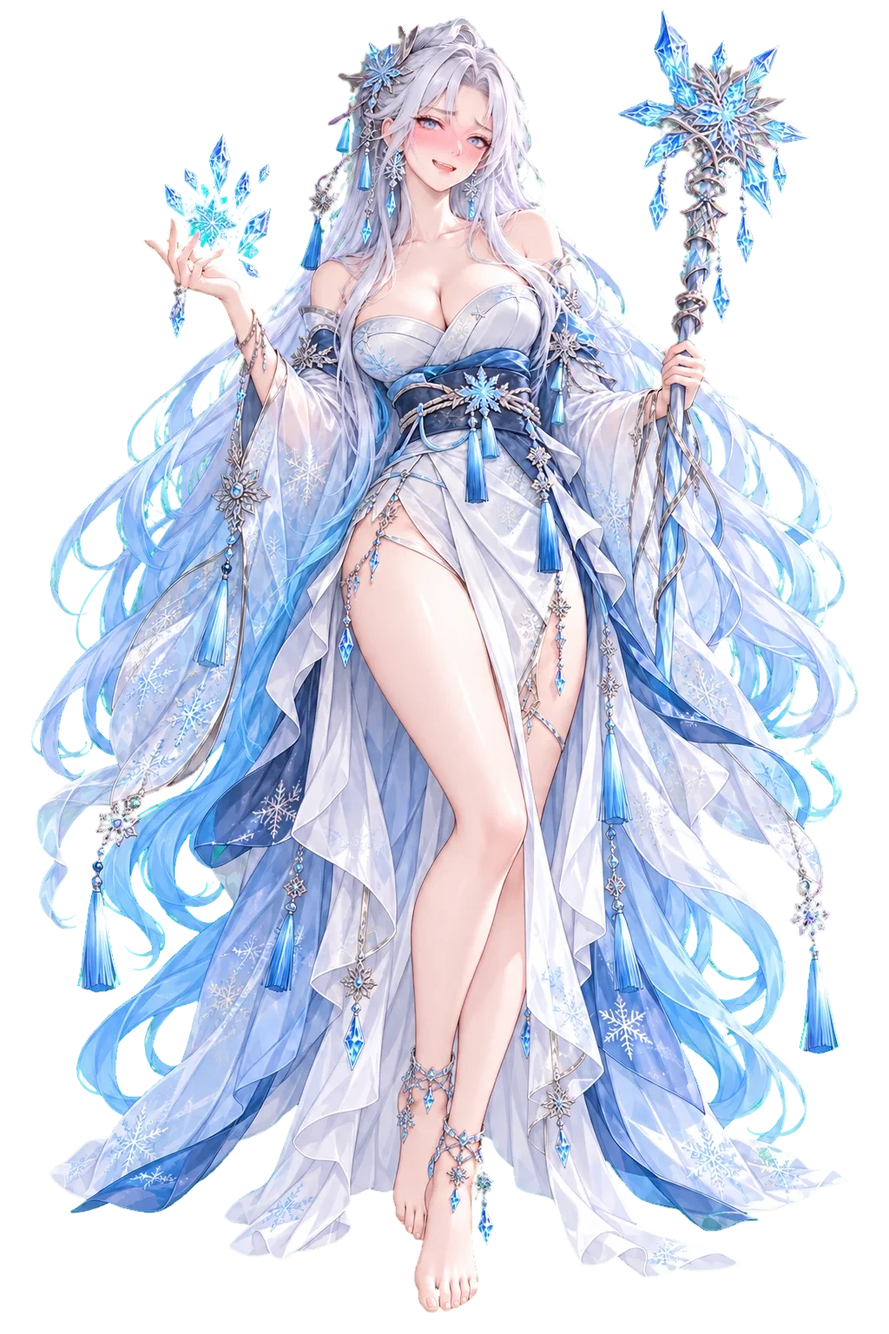
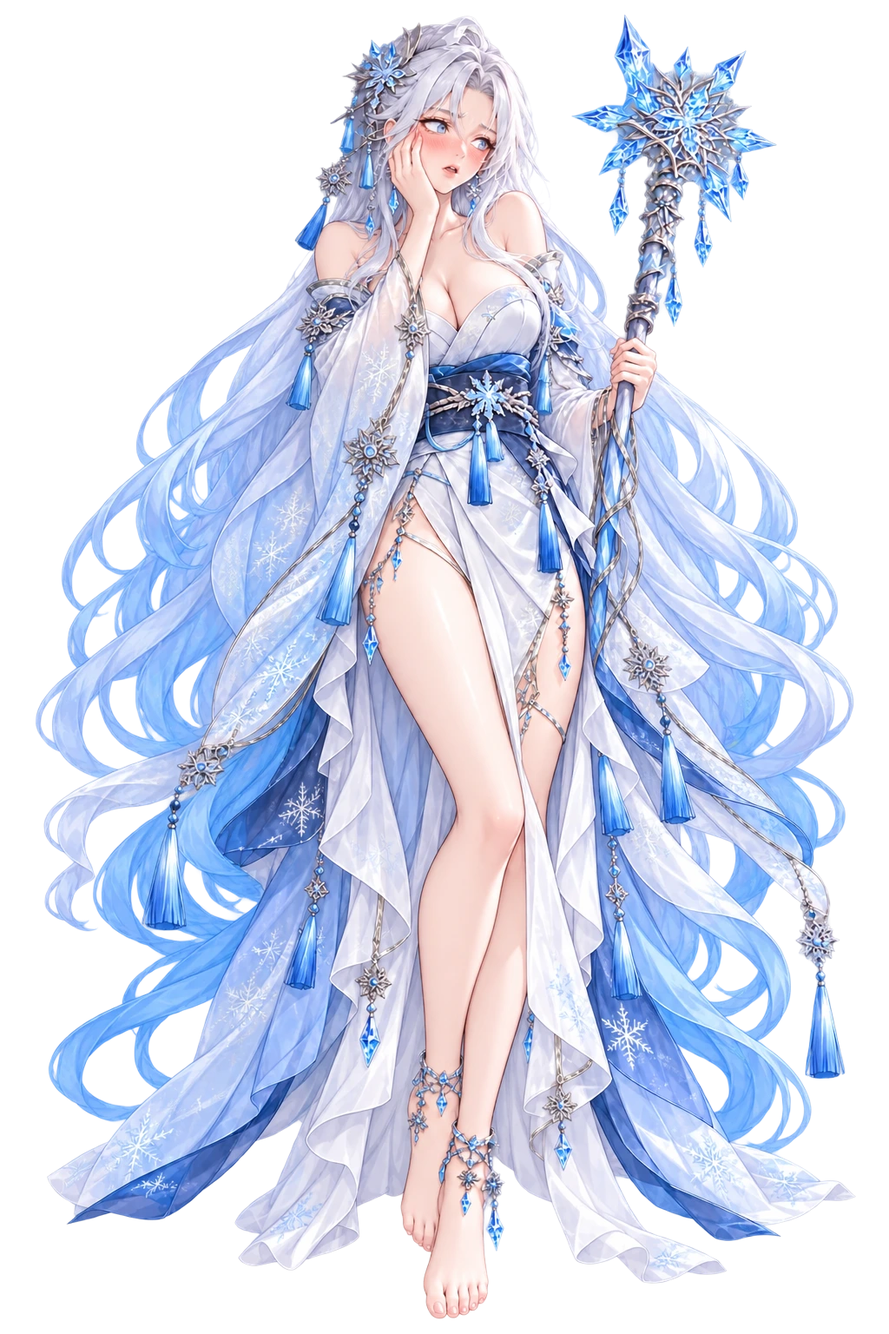
Pose moods for Yuki
Nine whole-pose moods for Yuki, approved by the owner (D-029, B-20).

- Generated with real transparency from the image tool. She keeps her staff
  in every pose; her sleeves hide a hand where the pose allows.
- Yuki is in POSE_MOODS with per-picture hand boxes.
- Every line of her chats has a mood; sad is on the lines about her sisters.
- Her base portrait is unchanged: the owner rejected the first transparent
  takes (hand detail lost, feet changed). ART_GUIDE 9 says how to retry.
- Docs: ART_ASSETS pose table and lessons, ART_QA, STATUS, B-20.

diff --git a/src/data/dialogues.ts b/src/data/dialogues.ts
@@ -110,6 +110,7 @@ export const EPISODES: ChatEpisode[] = [
         'Your hands are freezing. Here, let me see them.',
         ['Hold them for as long as you like.', 'g', 30],
         ["Won't that make them colder?", 'h', 10],
+        'smile',
       ),
       her('g', '...Humans are strange. Your hands are so hot. I think I could get used to it.', 'z', 'smile'),
       her('h', 'Mm. Probably. I just... wanted an excuse. Forget it.', 'z', 'pout'),
@@ -140,6 +141,7 @@ export const EPISODES: ChatEpisode[] = [
         "It's warm. It's actually... nice. Commander, is this what it feels like, being near you?",
         ['Something like that.', 'g', 25],
         ['Only you can answer that.', 'h', 30],
+        'smile',
       ),
       her('g', "Then I understand why everyone likes you so much. It's unfair.", 'z', 'smile'),
       her('h', "...Then my answer is yes. Don't make me say it twice. My face is already steaming.", 'z', 'blush'),
@@ -407,12 +409,13 @@ export const EPISODES: ChatEpisode[] = [
     start: 'a',
     nodes: [
       nar('a', 'At the edge of the garden, Yuki has built a row of small snow figures. Five of them. The last one is unfinished.', 'b'),
-      her('b', "These are my sisters. I make them when I miss the noise. ...Yes, snow spirits are noisy. You'd be surprised.", 'c', 'shy'),
+      her('b', "These are my sisters. I make them when I miss the noise. ...Yes, snow spirits are noisy. You'd be surprised.", 'c', 'sad'),
       pick(
         'c',
         'The mountain used to sing. Five voices, all day long. Then the Blight came and took them, one by one. Mine was the last.',
         ["That's why you speak so little.", 'd', 30],
         ["I'm so sorry, Yuki.", 'e', 25],
+        'sad',
       ),
       her('d', "...Yes. Every word felt like one fewer. You notice things you're not supposed to, Commander.", 'f', 'blush'),
       her('e', "It's not your fault. ...But thank you. It helps more than I expected.", 'f', 'smile'),
@@ -420,13 +423,14 @@ export const EPISODES: ChatEpisode[] = [
         'f',
         "When we pop the wisps, sometimes a light floats up and I hear a voice for a moment. I keep hoping one of them will be my sisters'.",
         'g',
-        'shy',
+        'sad',
       ),
       pick(
         'g',
         'Is that silly? Fighting a war just to hear someone laugh again?',
         ["It's the best reason to fight I've heard.", 'h', 30],
         ["Then I'll help you listen.", 'i', 30],
+        'shy',
       ),
       her('h', "You're very bad for my composure, Commander.", 'j', 'blush'),
       her('i', 'Listen... together. Okay. I would like that.', 'j', 'smile'),
@@ -447,7 +451,7 @@ export const EPISODES: ChatEpisode[] = [
         'b',
         'I need to tell you something before I lose my nerve. Yuki-onna freeze whatever they love. Every story ends the same way.',
         'c',
-        'shy',
+        'sad',
       ),
       her(
         'c',
@@ -460,9 +464,10 @@ export const EPISODES: ChatEpisode[] = [
         'Then you came along and ruined it. So... I want to try something. If it goes wrong, you have to run. Promise me.',
         ['I promise.', 'e', 20],
         ["I'm not running from you.", 'f', 30],
+        'shy',
       ),
       her('e', 'Good. Liar. ...Okay.', 'g', 'smile'),
-      her('f', "That's what they all said. ...Please be different. Please.", 'g', 'blush'),
+      her('f', "That's what they all said. ...Please be different. Please.", 'g', 'sad'),
       nar(
         'g',
         'She takes both your hands and rests her forehead against yours. The air turns to diamond dust around you. Frost creeps up your sleeves... and stops.',
@@ -474,6 +479,7 @@ export const EPISODES: ChatEpisode[] = [
         "Commander. Why didn't you freeze?",
         ['Maybe it was never going to hurt me.', 'j', 30],
         ['Anchors are sturdy. Try again?', 'k', 30],
+        'blush',
       ),
       her('j', "Then I've been afraid of the wrong thing my whole life. I think I need to sit down. On the ice. With you.", 'z', 'smile'),
       her('k', 'Again? You... want me to? Idiot. Yes. Obviously yes.', 'z', 'tease'),
@@ -504,6 +510,7 @@ export const EPISODES: ChatEpisode[] = [
         "Do you know what a yuki-onna's first snow means? Of course not. It's a secret. I'll tell you if you guess.",
         ["It's a gift.", 'd', 25],
         ["It means you're not afraid anymore.", 'e', 30],
+        'tease',
       ),
       her('d', "Close. A gift that says something. Something I've practiced saying to a snow figure of you forty-one times.", 'f', 'blush'),
       her('e', "...How do you always do that? Yes. It means I'm not afraid anymore.", 'f', 'blush'),
@@ -518,6 +525,7 @@ export const EPISODES: ChatEpisode[] = [
         "You don't have to answer. You can just stand in my snow with me. That would be enough.",
         ['I love you too, Yuki.', 'h', 30],
         ["Then I'll stand here until spring.", 'i', 30],
+        'smile',
       ),
       her('h', "...Oh. Oh no. It's snowing harder. That's your fault.", 'z', 'laugh'),
       her('i', "Spring won't come for this snow. So that means forever. I'm holding you to it.", 'z', 'smile'),

diff --git a/scripts/artSpec.ts b/scripts/artSpec.ts
@@ -10,7 +10,7 @@ export { MOODS };
  * portrait with a new face. The gate checks their moods keep her size and footing
  * instead of her silhouette. Every heroine moves here as her art is redone.
  */
-export const POSE_MOODS: ReadonlySet<string> = new Set(['scarlet']);
+export const POSE_MOODS: ReadonlySet<string> = new Set(['scarlet', 'yuki']);
 export const CHIBI_FILES = ['chibi', 'chibi-attack', 'chibi-back', 'chibi-back-attack'] as const;
 export const GALLERY_FILES = [1, 2, 3, 4, 5].map((n) => `gallery-${n}`);
 
@@ -77,10 +77,39 @@ export const HAND_BOXES: Record<string, Box[] | Record<string, Box[]>> = {
       [300, 660, 180, 170],
     ],
   },
-  yuki: [
-    [150, 200, 200, 220],
-    [700, 320, 180, 200],
-  ],
+  yuki: {
+    portrait: [
+      [160, 180, 190, 190],
+      [700, 330, 180, 190],
+    ],
+    'portrait-smile': [[700, 320, 180, 180]],
+    'portrait-laugh': [
+      [330, 110, 190, 190],
+      [673, 340, 180, 180],
+    ],
+    'portrait-tease': [
+      [387, 185, 180, 180],
+      [712, 350, 180, 180],
+    ],
+    'portrait-wink': [
+      [600, 228, 180, 180],
+      [380, 423, 180, 180],
+    ],
+    'portrait-blush': [
+      [388, 143, 180, 180],
+      [643, 343, 180, 180],
+    ],
+    'portrait-shy': [
+      [370, 160, 190, 190],
+      [597, 333, 180, 180],
+    ],
+    'portrait-pout': [[490, 330, 220, 200]],
+    'portrait-angry': [
+      [628, 207, 180, 180],
+      [493, 407, 180, 180],
+    ],
+    'portrait-sad': [[540, 280, 180, 240]],
+  },
   kaede: [
     [160, 170, 200, 180],
     [580, 470, 180, 170],

diff --git a/docs/STATUS.md b/docs/STATUS.md
@@ -63,14 +63,16 @@
 
 ## Last session
 
-**2026-10-03 — Pose moods: Scarlet approved, Yuki in progress; cut-outs with real transparency (Claude, local Windows session). Branch `wip/pose-moods`, not merged yet (B-20)**
+**2026-10-03 — Pose moods: Scarlet and Yuki approved; cut-outs with real transparency (Claude, local Windows session). Branch `wip/pose-moods`, not merged yet (B-20)**
 
 - The owner asked two things. (1) Can the generator output transparent backgrounds? Yes: Codex's image tool has `transparent_background`. Its cut-out beats keying a green screen (no screen colour to unmix; halo ≤ 0.004 once `npm run art` strips the faint fringe it leaves, `cleanAlpha` in `scripts/chroma.ts`). It is now a rule (AGENTS §7, ART_GUIDE §3 and §9): anything that needs a transparent background is asked transparent from the generator. (2) Moods should be whole poses, not the base portrait with a new face (D-029).
 - Scarlet has nine pose moods, **approved by the owner** (list and lessons in ART_ASSETS "Pose moods"). He rejected the first `blush`, `tease` and `shy` for their hands and picked replacements from two candidates each; he also picked a regenerated base portrait (real transparency, clean hair). The mood set is smile, laugh, tease, wink, blush, shy, pout, angry, sad (`MOODS` in `src/data/progression.ts`, the one definition now); `smirk`/`grin` files are deleted and their lines retagged for all five heroines; every line of Scarlet's has a mood (an untagged line falls back to `smile`, which with poses means she snaps back to the smile pose mid-scene). The other four have no `angry`/`sad` art yet, so their lines don't use them (a data test enforces it).
 - Chat: the old pose fades out under the new one (`.leave`, `MOOD_SWAP_MS`). Art gate: pose moods are checked for size and footing (`POSE_MOODS`), hand boxes are per picture, and the hands sheet zooms 3× (at 1.6× I passed hands he rejected).
 - **Rule from the owner: new art gets his review before it is committed.** Send him the moods sheet and the hands sheet first.
-- Next: Yuki, then Kaede, Selene, Nemu (B-20 has the steps). Yuki's generated pictures, if any are waiting for his review, are in `artifacts/art-src/yuki/` on his PC (git-ignored), not in the repo.
-  **Previously, 2026-10-03 — Art gate; ghost halo and blurry chats fixed (Claude, local Windows session)**
+- Yuki has nine pose moods, **approved by the owner** (ART_ASSETS has her pose table); she keeps her staff in every pose and her sleeves hide a hand where they can. Every line of hers has a mood; `sad` is on the lines about her sisters. Her base portrait is still the keyed one: he rejected the first two transparent takes (hand detail lost, feet changed).
+- Next: Yuki's base again, then Kaede, Selene, Nemu (B-20 has the steps). Pictures waiting for his review are in `artifacts/art-src/<id>/` on his PC (git-ignored), not in the repo.
+
+**Previously, 2026-10-03 — Art gate; ghost halo and blurry chats fixed (Claude, local Windows session)**
 
 - The owner saw a faint ghostly aura around Nemu and found the chat portraits a little low-res on desktop, and asked for a quality gate every heroine must pass. Halo: the keyer assumed a pure #00FF00 screen; generators return (3, 248, 5)-ish, so the screen near her came out ~3 % opaque, a 12 px band on every portrait (Nemu's black hair made it obvious). The keyer (now `scripts/chroma.ts`, unit-tested) measures the screen colour. Blur: the chat image showed at its natural 1536 px on every desktop, stretched 2× on the owner's 200 % 4K display; the home screen 2.1×. Both are now framed from the screen and capped at 1.25× (D-028); on 4K she shows head to ankle, sharp (B-19 for the framing).
 - Repaired all shipped cut-outs: re-keyed from the original PNGs still on this machine (Nemu, Selene, Kaede portraits and moods; all 20 chibi poses except the front ones of Scarlet, Yuki and Kaede, which were clean); Scarlet's and Yuki's portraits (sources lost) had the band removed from the WebP, and Scarlet's olive hair edges (an older keyer's fringe) recoloured. Cut-outs are WebP quality 0.92 now (was 0.85).
@@ -132,7 +134,7 @@
 
 ## Next up
 
-0. **Pose moods for Yuki, Kaede, Selene and Nemu (B-20, branch `wip/pose-moods`):** Scarlet's are approved. One heroine at a time: regenerate her base with real transparency, nine poses, the owner's review, then wire her chats. Merge the branch to `main` when the owner says so.
+0. **Pose moods for Kaede, Selene and Nemu, and Yuki's base portrait (B-20, branch `wip/pose-moods`):** Scarlet's and Yuki's are approved. One heroine at a time: regenerate her base with real transparency, nine poses, the owner's review, then wire her chats. Merge the branch to `main` when the owner says so.
 1. **Art gate sign-off (B-18):** the owner looks at `artifacts/art-check/` (or the game) and signs off each heroine in `docs/ART_QA.md`; redraw what he rejects. Ask him about B-19 (upscaled portraits for 4K framing).
 2. **Nemu follow-ups (owner):** confirm her chibi (B, two pins forward, is shipped; A, mid-throw, is the alternative), play her chats, and decide what to do with the two portrait poses he also liked (my suggestion: use them as gallery pictures). Her five gallery pictures are still placeholders (B-01).
 3. **Owner check of Kaede's and Selene's moods** (open a chat with each; any face he dislikes is one Codex image to redo with her `portrait.webp` as the reference, Kaede on blue, Selene on green). Then **T-08** (drop the `FULL_BODY` set, full body becomes the default framing). Then **Owner check:** Messages → a heroine → Gift / Diary / Talk. Then **owner playtest of the upgrade tree and the bigger heroines** (is 1.5 tiles right? `CHIBI_H` in `BattleScene.ts`; does the map panel sit on the right side of her?) and **install the PWA** on the phone (Add to Home Screen). Then **owner playtest of the skill effects** (upgrade each path to 3 with `?dev`; are signatures readable, too flashy at 3× speed?) and the longer music. Then **owner playtest of music + motion** (is the lofi too quiet/loud? any animation that feels slow or annoying? Tweak durations in the motion block of `style.css`). Then **owner playtest of the lobby + Frostveil Pass**, then the previous items. **Owner playtest (earlier):** read a Bond 5+ chat, watch combat at tier 3, listen to the new sounds. Tune in `Vfx.ts` / `sound.ts`.

diff --git a/docs/ART_GUIDE.md b/docs/ART_GUIDE.md
@@ -72,7 +72,7 @@ Follow these rules or faces get cut off:
   - The background must be **transparent** (a box behind her looks bad on the home screen). Two ways to get it:
     - **Best: real transparency from the generator.** Codex's image tool has a `transparent_background` switch (§9). `npm run art` only strips the near-invisible fringe its cut-out leaves. No screen colour ever touches her, so there are no coloured hair edges to repair (measured halo ≤ 0.003; keyed art is 0.008–0.028).
     - **Fallback: a green screen.** The ChatGPT app usually can't output transparency, so ask for a **flat solid pure green (#00FF00)** background: `npm run art` detects green corners and removes the green, edges included.
-  - **Moods are different poses, the same size.** Each `portrait-<mood>.webp` is a new pose and expression (§5.4), but her outfit, her size (head-to-feet height) and the line her feet stand on must match `portrait.webp`: in chats one picture fades into the next, so a change of size or footing shows as her growing or hopping. The art gate measures it. (Yuki, Kaede, Selene and Nemu still have the older kind, the base pose with only the face changed, until theirs are redrawn.)
+  - **Moods are different poses, the same size.** Each `portrait-<mood>.webp` is a new pose and expression (§5.4), but her outfit, her size (head-to-feet height) and the line her feet stand on must match `portrait.webp`: in chats one picture fades into the next, so a change of size or footing shows as her growing or hopping. The art gate measures it. (Kaede, Selene and Nemu still have the older kind, the base pose with only the face changed, until theirs are redrawn.)
 - **Chibi (`chibi.webp`)**
   - It is drawn about **one map tile tall**, which is tiny (roughly 40–80 px on screen). It needs a bold silhouette, big head, simple shapes, her signature color and weapon, and no fine details.
   - **She must face screen-RIGHT** (her body angled right, weapon pointing right). The game mirrors her when enemies are on the left.
@@ -391,6 +391,6 @@ OpenAI's Codex CLI signs in with the owner's ChatGPT plan (no API key) and has a
    **Cut-outs (portraits, moods, chibis): ask for real transparency.** The image tool takes `transparent_background: true`; say so in the prompt ("use your image generation tool with transparent_background set to true … save the tool's output unchanged, no post-processing"). The PNG comes back 1024×1536 with a real alpha channel, and `npm run art` strips its faint fringe. Don't judge these PNGs in an image viewer that ignores alpha: the hidden pixels hold a glow the tool painted behind her. The green screen (§5.1 PORTRAIT RULES; pure blue #0000FF for fire or yellow, as Kaede) is the fallback for tools without the switch.
    For moods, describe the pose (§5.4) and say she keeps the size of image 1. If the image tool refuses a mood, retry once with plainer wording (Selene's `tease` passed as "a playful, amused smile with one eyebrow slightly raised"; Scarlet's `wink` passed once the gun-smoke near her lips was dropped); don't push past a second refusal.
    A small fix to a finished picture works as an edit: attach it as image 1 and the portrait as image 2, and ask to recreate image 1 exactly with one thing changed.
-3. A base portrait that was keyed from a green screen is regenerated with real transparency before its pose moods are made (it is their reference, and its coloured hair edges would carry over): attach it as image 1 and ask to "recreate image 1 EXACTLY … the only differences: clean hair edges with no green tint, and a truly transparent background". Make two takes; the face is redrawn, so the owner picks. Show the owner the main portrait before making moods from it. Check moods line up (Scarlet's differed from the base by < 0.5 % of the silhouette).
+3. A base portrait that was keyed from a green screen is regenerated with real transparency before its pose moods are made (it is their reference, and its coloured hair edges would carry over): attach it as image 1 and ask to "recreate image 1 EXACTLY … the only differences: clean hair edges with no green tint, and a truly transparent background". Make two or three takes; everything is redrawn, so attach enlarged close-ups of the parts that must survive (hands, feet) as extra images, compare those parts with the original at 3×, and let the owner pick (he rejected Yuki's first takes for a simplified hand and changed feet). Show the owner the main portrait before making moods from it. Check moods line up (Scarlet's differed from the base by < 0.5 % of the silhouette).
 4. Copy the PNGs into `public/art/<id>/` with their final names and run `npm run art` (green is removed there), then `npm run smoke` and look at home, profile, chat and Bond screenshots.
 5. Keep the source PNGs until the owner signs off (`npm run art -- --keep`, or generate in a scratch folder and copy): the keyer improves over time and re-keying from the source is the only clean way to fix an edge problem later (Scarlet's and Yuki's sources were lost). Run the art gate ([ART_QA.md](ART_QA.md)) and fix every ✗ before showing the owner.

diff --git a/docs/ART_ASSETS.md b/docs/ART_ASSETS.md
@@ -25,9 +25,9 @@ Kaede's approved design, for future art of her: left hand on her hip with the el
 
 Selene's approved design, for future art of her: the owner asked for cleavage like the other heroines, so her gown now has an open plunging V neckline with halter straps (this replaces the covered high-neck bodice described below; her chibi was redone to match on 2026-10-03). Right hand raised with the fingertips on her bare shoulder, glossy lilac almond-shaped nails, left hand holding a tall moon bow upright at her side (large gold crescent above a dark grip, lower tip around her knee), thick side braid over her left shoulder, gold heeled sandals. The owner checks hands and nails closely: review both hands zoomed in before showing him a candidate.
 
-## Pose moods (2026-10-03, Scarlet approved)
+## Pose moods (2026-10-03: Scarlet and Yuki approved)
 
-The owner wants each mood to be a whole pose and expression instead of the base portrait with a new face (D-029). Scarlet is the first; her nine `portrait-<mood>.webp` were generated with her `portrait.webp` as the reference and real transparency from the image tool (`transparent_background`, no green screen). The owner approved her set and the approach; the other four follow one at a time (B-20) and until then keep face-only moods and no `angry` or `sad`.
+The owner wants each mood to be a whole pose and expression instead of the base portrait with a new face (D-029). Scarlet is the first; her nine `portrait-<mood>.webp` were generated with her `portrait.webp` as the reference and real transparency from the image tool (`transparent_background`, no green screen). The owner approved her set and the approach, then Yuki's; Kaede, Selene and Nemu follow one at a time (B-20) and until then keep face-only moods and no `angry` or `sad`.
 
 | Mood  | Scarlet's pose                                                                                      |
 | ----- | --------------------------------------------------------------------------------------------------- |
@@ -42,6 +42,22 @@ The owner wants each mood to be a whole pose and expression instead of the base 
 | sad   | head bowed, eyes downcast, one hand holding her other arm, one revolver hanging at her side         |
 
 Lessons: the first `angry` (wide battle stance, arm fully out) lost a boot to the image edge and was redone with "everything inside the image with a margin"; `smile` and `laugh` came back with red nail polish and `wink` with black, fixed with an edit that changed only the nails (her nails are natural); the filter refused the first `wink` (blowing gun smoke near her lips) and passed a plainer one. The owner rejected the first `blush`, `tease` and `shy` for their hands (a hand lying on a revolver instead of gripping it, a second row of knuckles, clasped hands with no countable fingers); the replacements use hand poses the generator gets right: a closed fist, a hand on the hip, an arm behind her back. Her base `portrait.webp` was regenerated with real transparency too (an exact recreation of the keyed one, owner picked take A of two): clean crimson hair edges, halo 0.002 against 0.022.
+
+Yuki keeps her staff in every pose (a closed grip around the shaft is a hand the generator draws well), and her long sleeves hide a hand wherever the pose allows:
+
+| Mood  | Yuki's pose                                                                                          |
+| ----- | ---------------------------------------------------------------------------------------------------- |
+| smile | weight on one leg, head tilted, staff upright in one hand, the other hand inside her sleeve          |
+| laugh | eyes closed, laughing behind a raised sleeve (hand inside it), leaning on the staff                  |
+| tease | leaning in, a loose fist under her chin, staff upright in the other hand, half-lidded eyes           |
+| wink  | one eye closed, staff resting on her shoulder, the other hand on her hip                             |
+| blush | bright pink cheeks, eyes to the side, a hand on her cheek, staff held close                          |
+| shy   | the lower half of her face hidden behind a raised sleeve, staff held close, knees together           |
+| pout  | turned away, cheeks puffed, arms folded with both hands in her sleeves, staff in the crook of an arm |
+| angry | feet apart, staff gripped in both hands across her body, hair and sleeves in a freezing wind         |
+| sad   | head bowed, both hands holding the staff close, her temple resting against it                        |
+
+Lessons from Yuki: the first `smile` (a hand tucking her hair) came back with dark grey nails that two nail-only edits did not change, so the pose was replaced; no line of hers uses `angry` yet. Her regenerated base portrait was rejected (the raised hand lost its detail and the feet changed shape): a "recreate exactly" take redraws small parts, so give the generator enlarged close-ups of the parts that must survive (extra `-i` images) and compare them at 3× before showing the owner.
 
 ## Gallery 2, "Off Duty" (2026-10-02)
 

diff --git a/docs/ART_QA.md b/docs/ART_QA.md
@@ -38,7 +38,7 @@ Measured on clean art: halo ≤ 0.03, tint ≤ 1.6 %, spill 0, mood IoU ≥ 0.99
 | Heroine | Automated                           | Agent eye review (2026-10-03)                                                                                                                                                                                                                                                                                                                                                                 | Owner sign-off still needed                                                                       |
 | ------- | ----------------------------------- | --------------------------------------------------------------------------------------------------------------------------------------------------------------------------------------------------------------------------------------------------------------------------------------------------------------------------------------------------------------------------------------------- | ------------------------------------------------------------------------------------------------- |
 | Scarlet | passes                              | **Nine pose moods (D-029), owner approved 2026-10-03** after three were redone for their hands (blush, tease, shy). Hands reviewed at 3× in all ten pictures: fingers countable, every held revolver gripped, nail colour consistent; same size in every pose; no gun toward the viewer or her head. Base portrait regenerated with real transparency (owner picked take A): clean hair edges | chibi front pose (predates her full-body art), gallery-1 (predates it too)                        |
-| Yuki    | incomplete (no angry, sad)          | Hands correct in all 8 (face-only moods)                                                                                                                                                                                                                                                                                                                                                      | pose moods to redo (B-20); chibi front pose, gallery-1                                            |
+| Yuki    | passes                              | **Nine pose moods (D-029), owner approved 2026-10-03.** Hands reviewed at 3.5–6×: every staff hand a closed grip with four fingers and a thumb, nails pale pink in every picture; same size in every pose. Base portrait: still the keyed one (teal tint on some hair and sleeve edges); the first transparent takes were rejected (hand and feet), new takes in progress                     | the regenerated base portrait; chibi front pose, gallery-1                                        |
 | Kaede   | incomplete (no angry, sad)          | Hands correct in all 8 (face-only moods)                                                                                                                                                                                                                                                                                                                                                      | pose moods to redo (B-20); chibi front pose, gallery-1                                            |
 | Selene  | incomplete (no angry, sad)          | Hands correct in all 8 (face-only moods)                                                                                                                                                                                                                                                                                                                                                      | pose moods to redo (B-20)                                                                         |
 | Nemu    | incomplete (no angry, sad, gallery) | Hands correct in all 8 (face-only moods)                                                                                                                                                                                                                                                                                                                                                      | pose moods to redo (B-20); chibi front pose (B shipped, A the alternative), five gallery pictures |

diff --git a/docs/BACKLOG.md b/docs/BACKLOG.md
@@ -6,11 +6,11 @@ Legend: **P1** next · **P2** soon · **P3** later · 🔒 blocked (reason given
 
 ---
 
-### B-20 · P1 · Pose moods for every heroine (Scarlet done; Yuki next)
+### B-20 · P1 · Pose moods for every heroine (Scarlet and Yuki done; Kaede next)
 
-Moods are whole poses (D-029). The owner approved Scarlet's nine and the approach on 2026-10-03. Branch `wip/pose-moods` holds the work; `main` and the live game still have face-only moods and the old mood list until it is merged.
+Moods are whole poses (D-029). The owner approved Scarlet's nine and the approach on 2026-10-03, then Yuki's nine. Still open for Yuki: her base portrait with real transparency (he rejected the first two takes: the raised hand lost detail and the feet changed). Branch `wip/pose-moods` holds the work; `main` and the live game still have face-only moods and the old mood list until it is merged.
 
-For each of Yuki, Kaede, Selene and Nemu, one heroine at a time:
+For each of Kaede, Selene and Nemu, one heroine at a time:
 
 1. Regenerate her base `portrait.webp` with real transparency (ART_GUIDE §9 step 3: an exact recreation, two takes, owner picks). It is the reference for her moods.
 2. Generate nine poses written for her character (LORE; ART_GUIDE §5.4 and §9, `transparent_background`). Use hand poses the generator gets right (ART_ASSETS "Pose moods" lessons).
